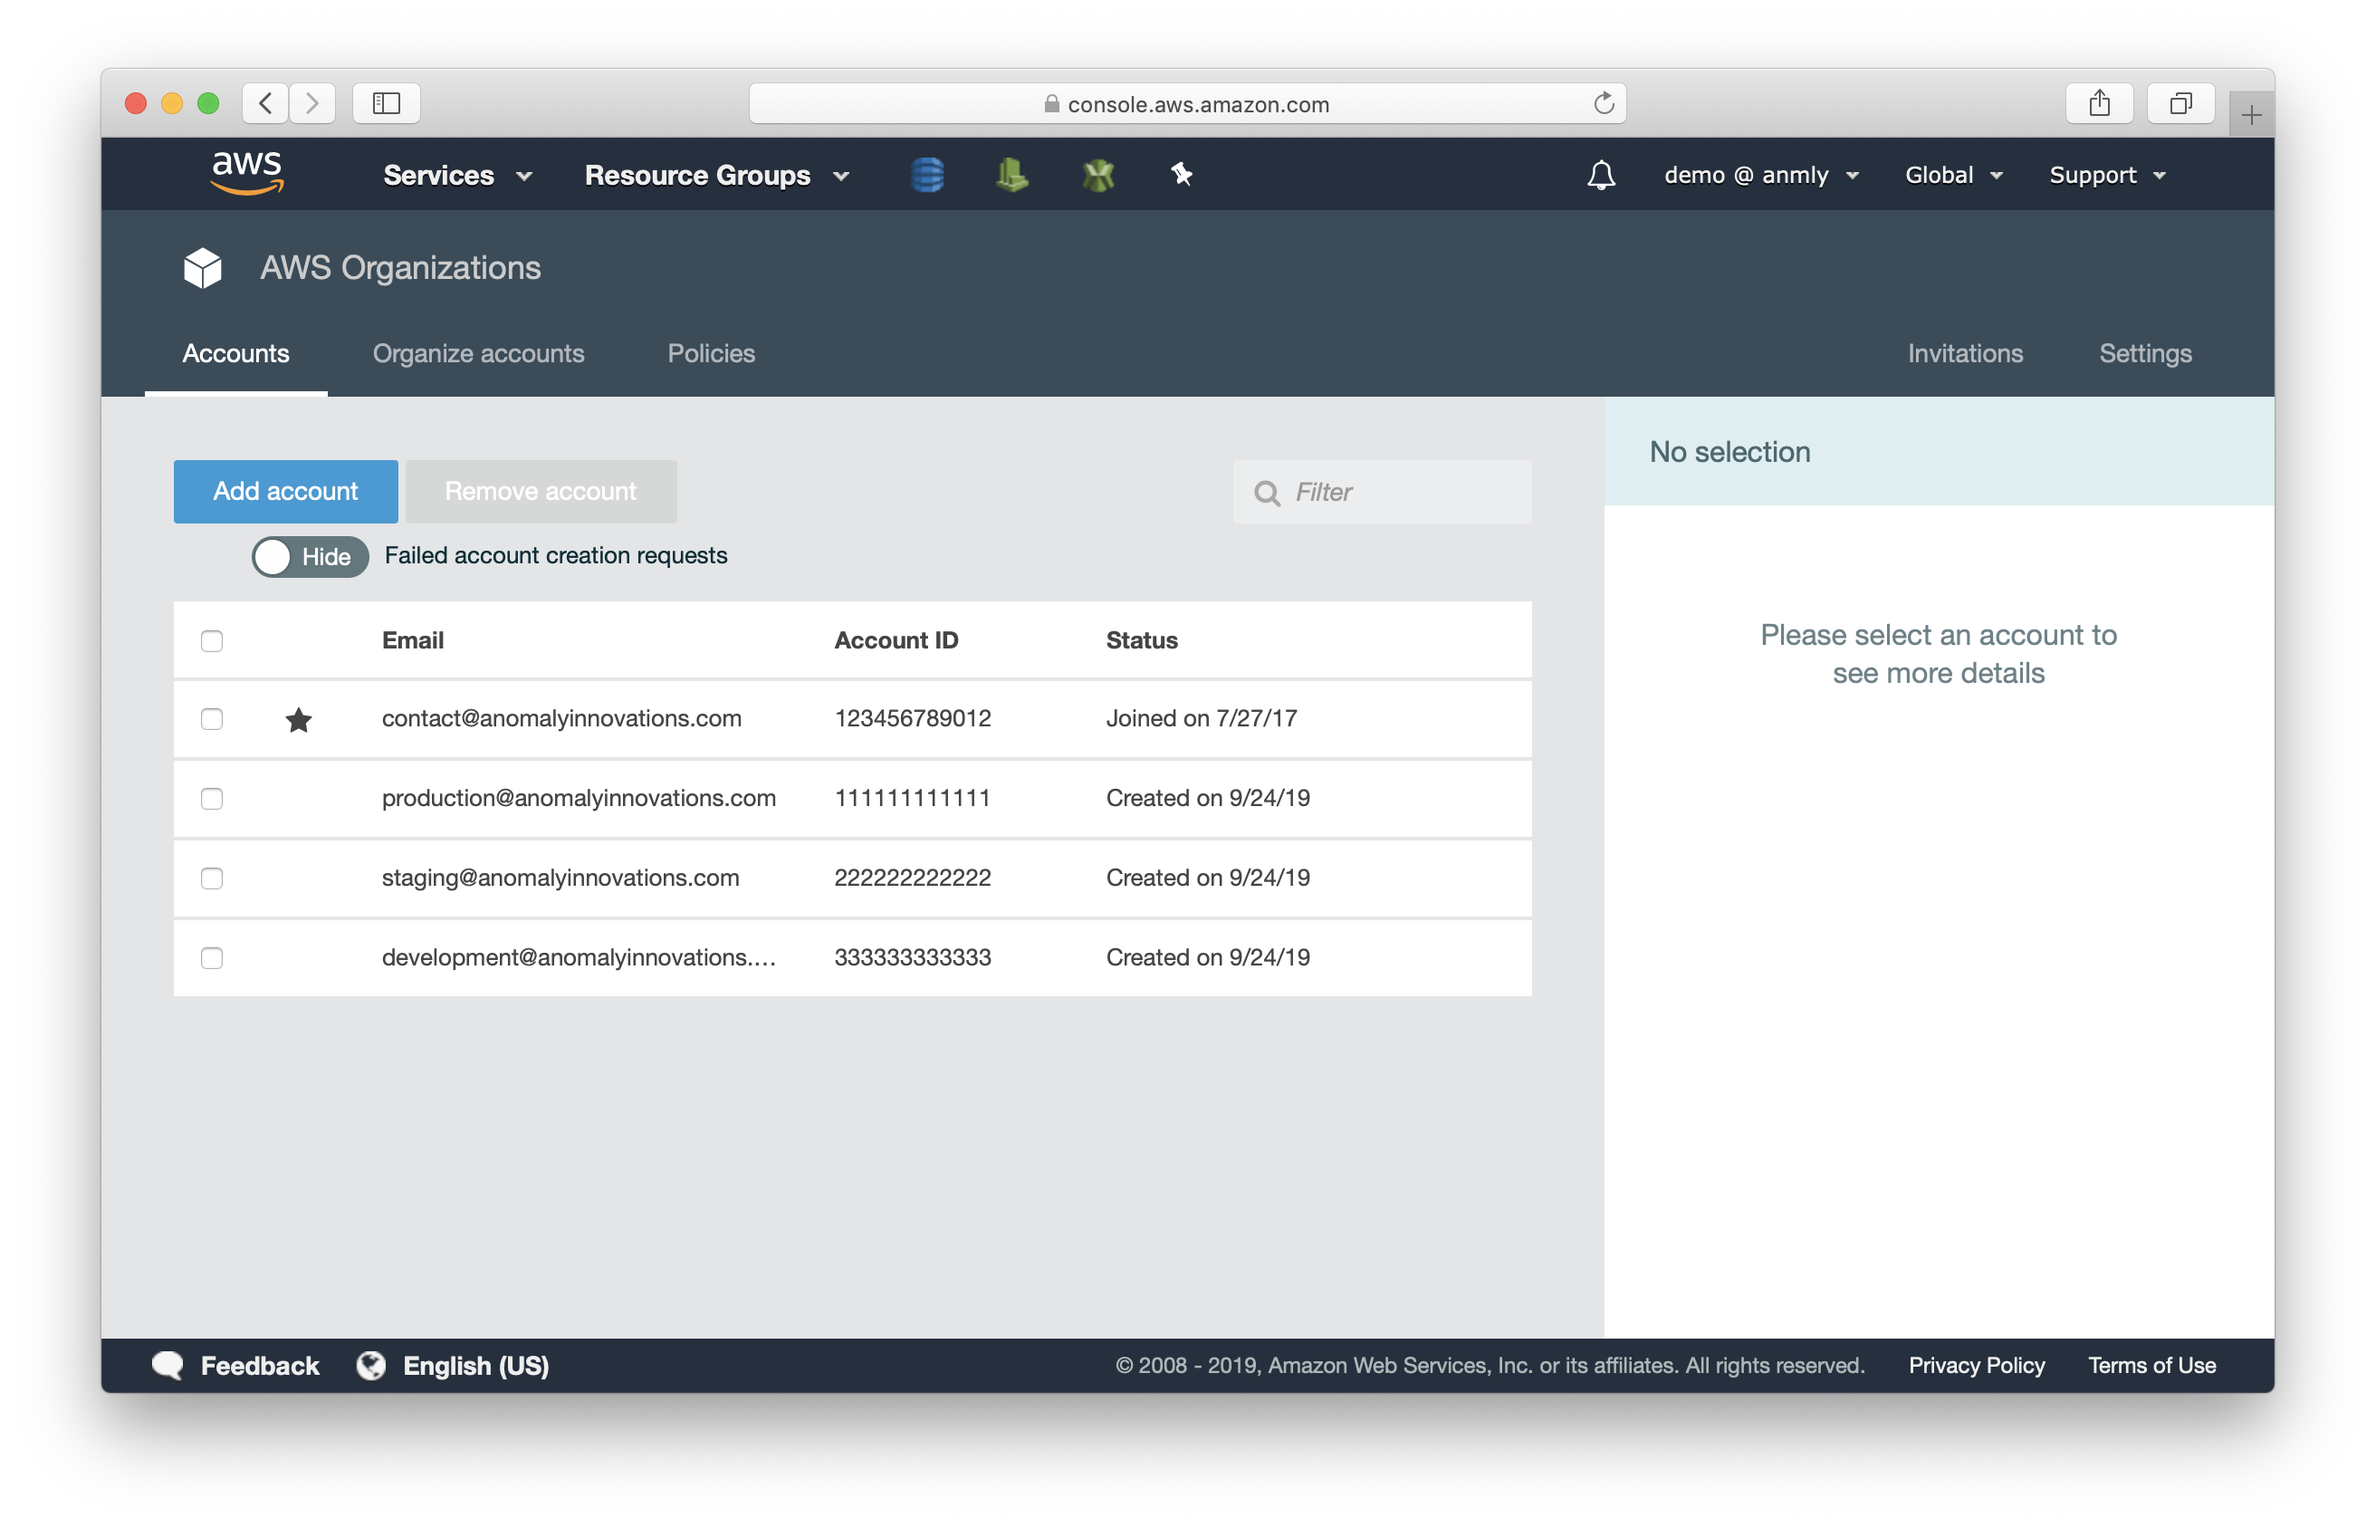
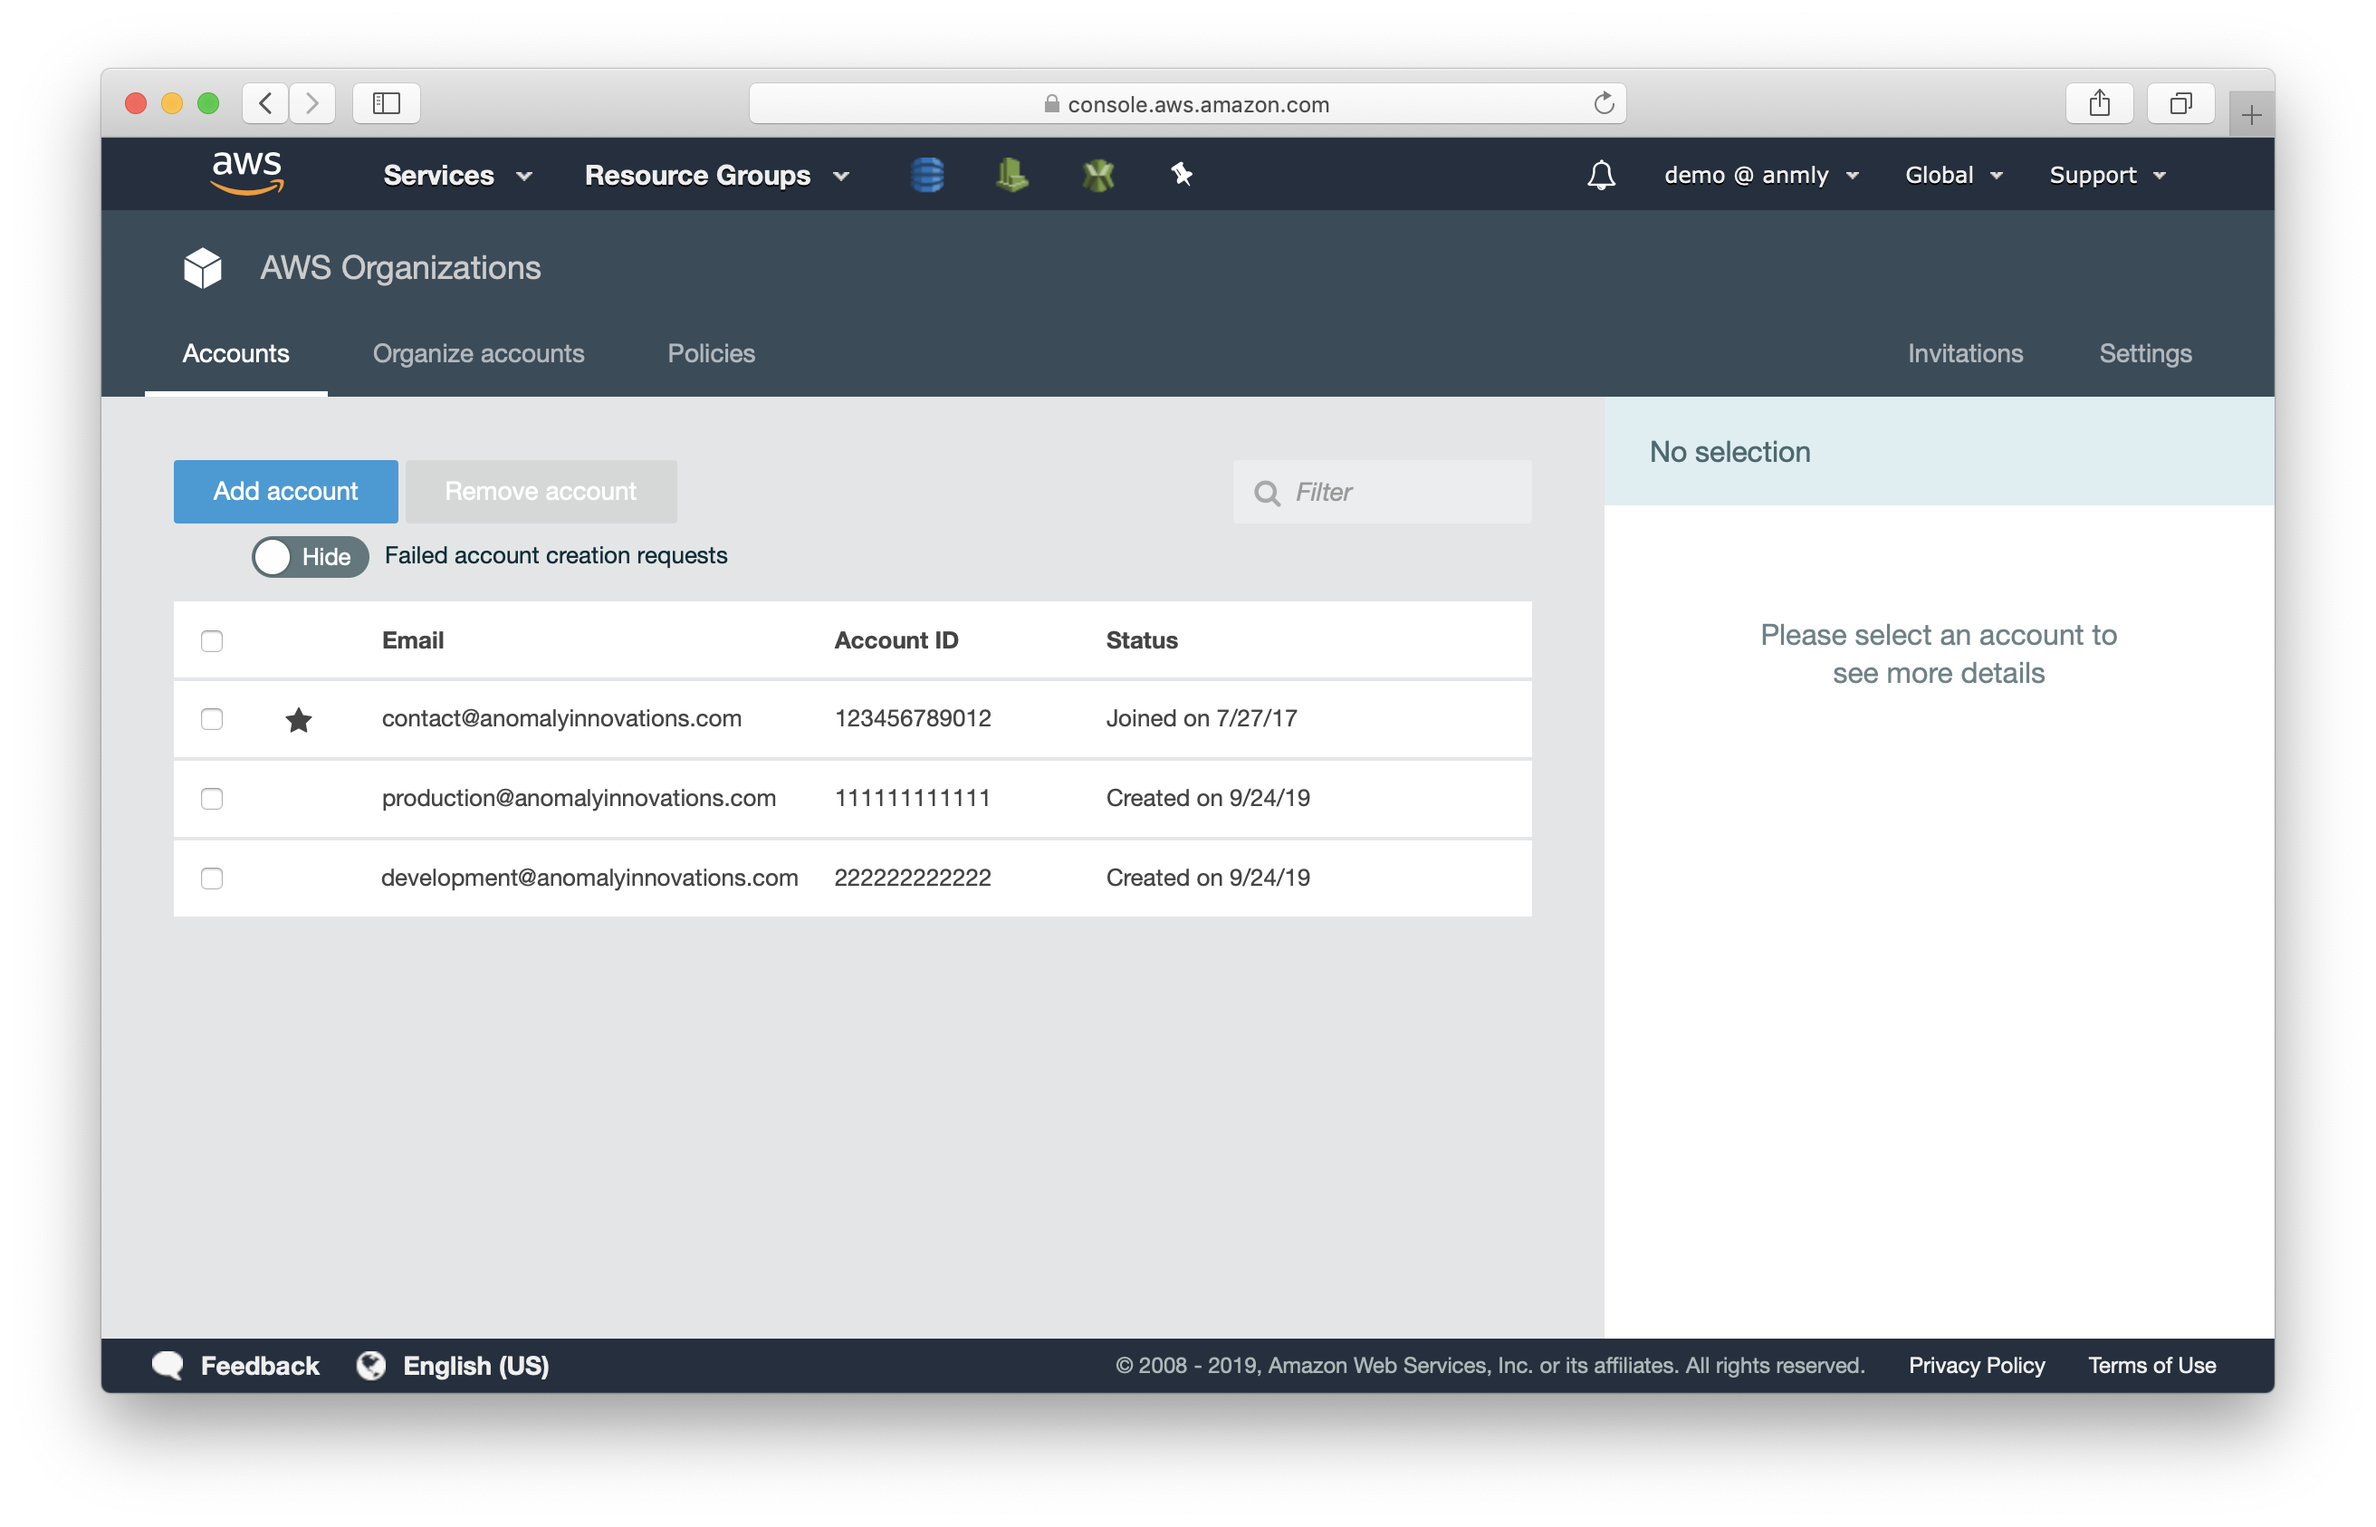
Removed creating staging account

Changed region(s): [[0.0625, 0.5552, 0.6562, 0.6785]]

diff --git a/_chapters/create-and-manage-aws-accounts-using-aws-organizations.md b/_chapters/create-and-manage-aws-accounts-using-aws-organizations.md
@@ -69,7 +69,7 @@ You can switch back to the root account by clicking on the account picker and se
 
 ![](/assets/best-practices/create-and-manage-aws-accounts-using-aws-organizations-9.png)
 
-Next, repeat the above steps to create the Development account and optionally the Staging account.
+Next, repeat the above steps to create the Development account.
 
 ![](/assets/best-practices/create-and-manage-aws-accounts-using-aws-organizations-10.png)
 
